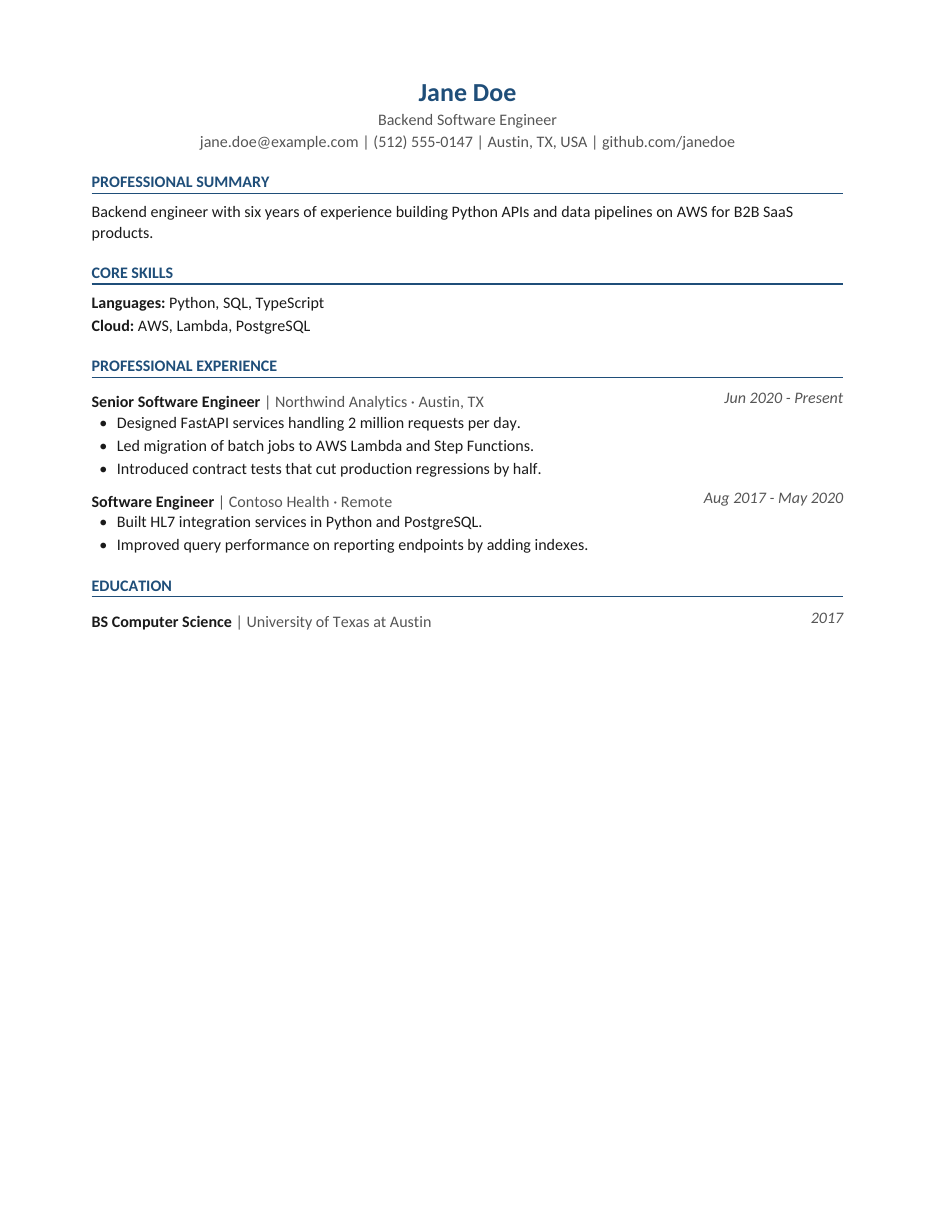
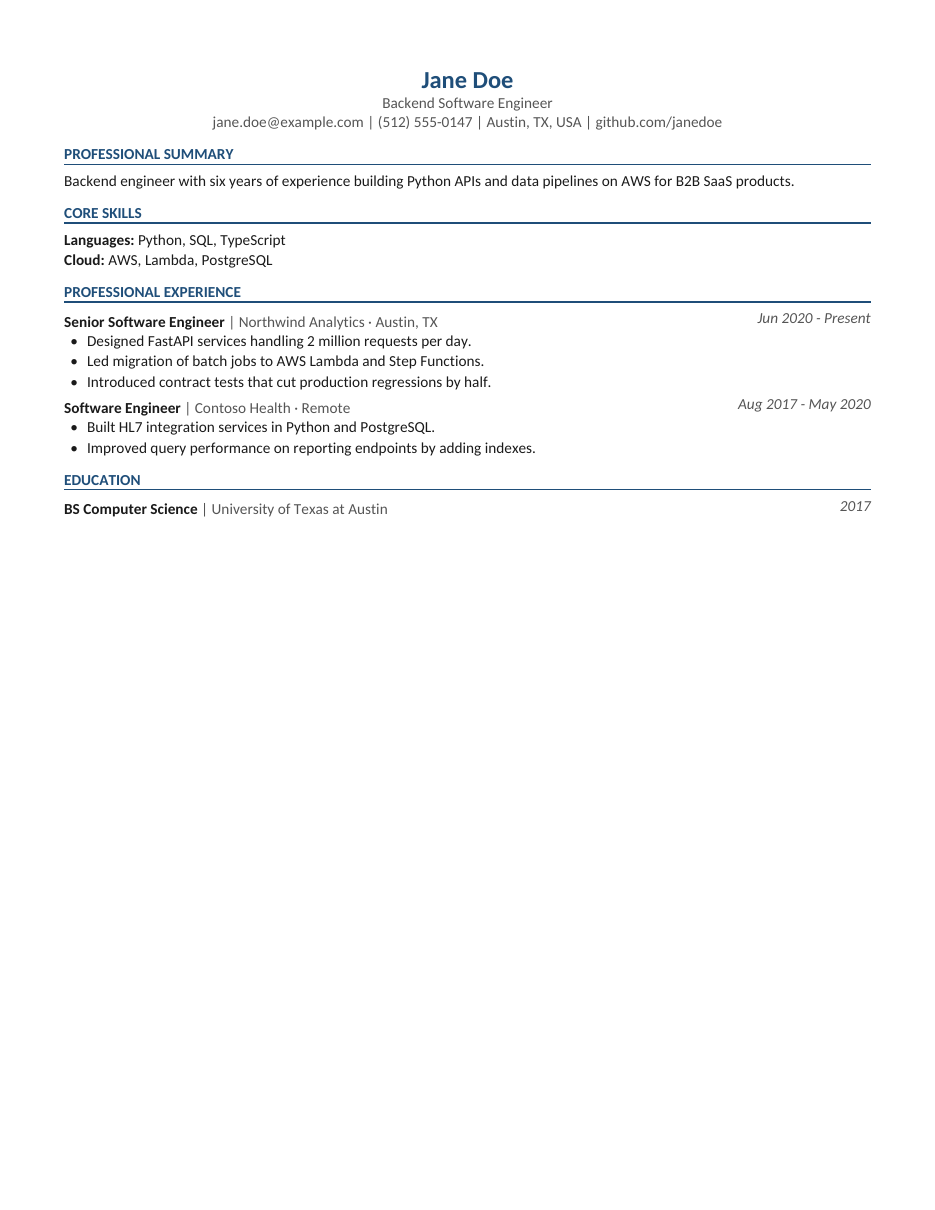
Repair main merge: re-apply resume layout onto the one-page exporter
The merge of main (#25) left pdf_generator.py with a syntax error, so five
test modules failed to import. Rebuilt it from main's version and
re-applied the reference layout on top, keeping #25's behaviour:

- Strict one-page fitting (standard/balanced/compact profiles, then
  condensing), branding stripping, generator-tag scrubbing and per-
  character Noto/WenQuanYi fallback are unchanged.
- The document's base family is now Carlito, or DejaVu Sans when Carlito
  lacks glyphs DejaVu has; fallback coverage is checked against that
  base via a context variable. ExportResult reports the font.
- Name uses the profile title size (16/15/14pt) so the markup-injection
  size cap still holds; employer/location text is regular weight inside
  the bold entry line; dates containing scripts the base font lacks stay
  in the paragraph so they get font fallback.
- rewrite_guard is reported again, now from services/resume_pipeline.py.

Tests: neutral project title in the entry-line test (the branding
stripper removes "Baalebos AI"), rounding for pdfplumber's 8.999999pt
readings, and assertions for entry-line weights and the guard in the
upload flow. Regenerated docs/resume-samples.

Claude-Session: https://claude.ai/code/session_01HCJqQb9cdfXv2skmUJq4rV

diff --git a/backend/app/utils/pdf_generator.py b/backend/app/utils/pdf_generator.py
@@ -5,11 +5,14 @@ Rules enforced here:
   ``strip_watermarks_and_branding``; no footer, page counter, watermark layer,
   producer/creator tag or generator comment is written. ``improvements`` and
   ``score`` are accepted for backwards compatibility and ignored.
-* No tables, images or colour-coded meaning. Text is selectable, uses an
-  embedded Unicode TTF (DejaVu Sans, Noto/WenQuanYi fallbacks for other
-  scripts) and real text bullets.
-* Section order: Summary, Experience, Skills, Education, Certifications,
-  Projects (empty sections omitted).
+* No tables, images or colour-coded meaning (one accent colour for the name
+  and headings only). Text is selectable and uses embedded TTFs: Carlito,
+  or DejaVu Sans for the whole document when Carlito lacks a glyph the text
+  needs, with Noto/WenQuanYi fallbacks for other scripts. Real text bullets;
+  dates sit right-aligned on the entry line as a separate text run.
+* Section order: Professional Summary, Core Skills, Professional Experience,
+  Selected Projects, Certifications, Education, Additional Information
+  (empty sections omitted).
 * Page size follows the candidate's region: US Letter for US/CA, A4 otherwise.
 * Strictly one page: standard (10pt) -> balanced (9.5pt) -> compact (9pt)
   profiles, then secondary content is condensed. Employers, titles, dates,
@@ -17,6 +20,7 @@ Rules enforced here:
 """
 from __future__ import annotations
 
+import contextvars
 import copy
 import os
 import re
@@ -38,18 +42,20 @@ from reportlab.platypus import Flowable, Paragraph, SimpleDocTemplate
 
 FONT_DIRECTORY = Path(__file__).resolve().parents[1] / 'assets' / 'fonts'
 # Carlito is metric-compatible with Calibri. DejaVu Sans covers far more
-# scripts and is used for the whole document when Carlito lacks a glyph, so a
-# resume never mixes fonts or silently loses characters.
+# Latin (e.g. Yoruba dot-below letters), so a document Carlito cannot fully
+# draw uses DejaVu throughout rather than mixing fonts inside names.
 FONT_FAMILIES = {
     'Carlito': ('Carlito-Regular.ttf', 'Carlito-Bold.ttf', 'Carlito-Italic.ttf', 'Carlito-BoldItalic.ttf'),
     'DejaVuSans': ('DejaVuSans.ttf', 'DejaVuSans-Bold.ttf', 'DejaVuSans-Oblique.ttf', 'DejaVuSans-BoldOblique.ttf'),
 }
-PRIMARY_FONT, FALLBACK_FONT = 'Carlito', 'DejaVuSans'
+PRIMARY_FONT, WIDE_LATIN_FONT = 'Carlito', 'DejaVuSans'
 for _family, (_regular, _bold, _italic, _bold_italic) in FONT_FAMILIES.items():
     for _suffix, _file in (('', _regular), ('-Bold', _bold), ('-Italic', _italic), ('-BoldItalic', _bold_italic)):
         pdfmetrics.registerFont(TTFont(_family + _suffix, str(FONT_DIRECTORY / _file)))
     pdfmetrics.registerFontFamily(_family, normal=_family, bold=f'{_family}-Bold',
                                   italic=f'{_family}-Italic', boldItalic=f'{_family}-BoldItalic')
+# The base family of the document being rendered; fallbacks are relative to it.
+_DOCUMENT_FONT = contextvars.ContextVar('resume_document_font', default=PRIMARY_FONT)
 
 ACCENT_COLOR = colors.HexColor('#1F4E79')   # name, headings and rules only; carries no meaning
 TEXT_COLOR = colors.HexColor('#1A1A1A')
@@ -374,13 +380,14 @@ class ExportResult:
     page_size: str
     region: str
     layout: str
+    font: str = PRIMARY_FONT
     condensed: bool = False
     condensed_items: list[str] = field(default_factory=list)
     warnings: list[str] = field(default_factory=list)
 
     def info(self) -> dict:
         return {'pages': self.pages, 'page_size': self.page_size, 'region': self.region, 'layout': self.layout,
-                'condensed': self.condensed, 'condensed_items': list(self.condensed_items),
+                'font': self.font, 'condensed': self.condensed, 'condensed_items': list(self.condensed_items),
                 'warnings': list(self.warnings)}
 
 
@@ -411,9 +418,24 @@ def _font_dirs():
     return extra + FONT_SEARCH_DIRS
 
 
-@lru_cache(maxsize=1)
-def _primary_coverage() -> frozenset:
-    return frozenset(pdfmetrics.getFont(FONT_REGULAR).face.charWidths)
+@lru_cache(maxsize=None)
+def _coverage(family: str) -> frozenset:
+    return frozenset(pdfmetrics.getFont(family).face.charWidths)
+
+
+def choose_font(data: dict) -> str:
+    """Carlito unless it lacks characters DejaVu Sans can draw; then DejaVu."""
+    text = _all_text(data)
+    lacking = {ord(c) for c in text if ord(c) >= 0x80 and not c.isspace()} - _coverage(PRIMARY_FONT)
+    return WIDE_LATIN_FONT if lacking & _coverage(WIDE_LATIN_FONT) else PRIMARY_FONT
+
+
+def _all_text(data: dict) -> str:
+    parts = [data['name'], data['title'], data['contact'], data['summary'], data['additional_information']]
+    parts += [item for category, values in data['skills'].items() for item in (category, ' '.join(values))]
+    for section in ('experience', 'projects', 'education'):
+        parts += [str(v) for entry in data[section] for v in entry.values()]
+    return ' '.join(parts + data['certifications'])
 
 
 @lru_cache(maxsize=None)
@@ -438,7 +460,7 @@ def _font_for(char: str):
     """Return None for the primary font, a fallback font name, or '' if no
     installed font can render the character."""
     code = ord(char)
-    if code < 0x80 or code in _primary_coverage():
+    if code < 0x80 or code in _coverage(_DOCUMENT_FONT.get()):
         return None
     for font_name, _, _ in FALLBACK_FONTS:
         coverage = _fallback(font_name)
@@ -490,25 +512,76 @@ def _unsupported_characters(data: dict) -> list[str]:
     return sorted({c for c in text if ord(c) > 0x7f and not unicodedata.combining(c)
                    and unicodedata.category(c)[0] in 'LNPS' and _font_for(c) == ''})
 
+
+class SectionHeading(Flowable):
+    """Bold accent-coloured caps over a thin rule, kept with the content that follows."""
+
+    def __init__(self, text: str, font: str, size: float, space_before: float):
+        super().__init__()
+        self.text, self.font, self.size = text.upper(), font, size
+        self.keepWithNext = 1
+        self.spaceBefore, self.spaceAfter = space_before, 3
+
+    def wrap(self, available_width, available_height):
+        self.width = available_width
+        return available_width, self.size + 4
+
+    def draw(self):
+        canvas = self.canv
+        canvas.setFillColor(ACCENT_COLOR)
+        canvas.setFont(self.font, self.size)
+        canvas.drawString(0, 4.5, self.text)
+        canvas.setStrokeColor(ACCENT_COLOR)
+        canvas.setLineWidth(0.8)
+        canvas.line(0, 1.5, self.width, 1.5)
+
+
 class EntryLine(Flowable):
     """Entry text on the left, dates right-aligned on the same first line.
 
-def _styles(layout: Layout) -> dict[str, ParagraphStyle]:
+    Drawn as two text runs, not a table, so ATS parsers read it in order.
+    """
+
+    def __init__(self, left_markup: str, right: str, style: ParagraphStyle, right_font: str, keep_with_next: bool):
+        super().__init__()
+        self.left_markup, self.right, self.style, self.right_font = left_markup, right, style, right_font
+        self.keepWithNext = 1 if keep_with_next else 0
+        self.spaceBefore = style.spaceBefore
+
+    def wrap(self, available_width, available_height):
+        self.width = available_width
+        right_width = stringWidth(self.right, self.right_font, self.style.fontSize) if self.right else 0
+        self.paragraph = Paragraph(self.left_markup, self.style)
+        _, self.height = self.paragraph.wrap(available_width - (right_width + 12 if self.right else 0), available_height)
+        return available_width, self.height
+
+    def draw(self):
+        self.paragraph.drawOn(self.canv, 0, 0)
+        if self.right:
+            ascent = pdfmetrics.getAscentDescent(self.style.fontName, self.style.fontSize)[0]
+            self.canv.setFont(self.right_font, self.style.fontSize)
+            self.canv.setFillColor(MUTED_COLOR)
+            self.canv.drawRightString(self.width, self.height - ascent, self.right)
+
+
+def _styles(layout: Layout, font: str) -> dict[str, ParagraphStyle]:
     # splitLongWords + uriWasteReduce wrap long URLs/tokens without inserting
     # characters into the extractable text (which would corrupt ATS parsing).
-    base = dict(fontName=FONT_REGULAR, fontSize=layout.body, leading=layout.leading, textColor=TEXT_COLOR,
+    bold, italic = f'{font}-Bold', f'{font}-Italic'
+    base = dict(fontName=font, fontSize=layout.body, leading=layout.leading, textColor=TEXT_COLOR,
                 splitLongWords=1, uriWasteReduce=0.3)
     return {
-        'name': ParagraphStyle('Name', **{**base, 'fontName': FONT_BOLD, 'fontSize': layout.title,
-                                          'leading': layout.title * 1.2, 'spaceAfter': 1}),
-        'contact': ParagraphStyle('Contact', **base),
-        'heading': ParagraphStyle('Heading', **{**base, 'fontName': FONT_BOLD, 'fontSize': layout.body + 1,
-                                                'leading': layout.leading + 1, 'spaceBefore': layout.section_gap,
-                                                'spaceAfter': 1, 'keepWithNext': True}),
-        'entry': ParagraphStyle('Entry', **{**base, 'spaceBefore': layout.entry_gap, 'keepWithNext': True}),
+        'name': ParagraphStyle('Name', **{**base, 'fontName': bold, 'fontSize': layout.title,
+                                          'leading': layout.title * 1.2, 'textColor': ACCENT_COLOR,
+                                          'alignment': TA_CENTER}),
+        'title': ParagraphStyle('Title', **{**base, 'textColor': MUTED_COLOR, 'alignment': TA_CENTER}),
+        'contact': ParagraphStyle('Contact', **{**base, 'textColor': MUTED_COLOR, 'alignment': TA_CENTER}),
         'body': ParagraphStyle('Body', **base),
-        'bullet': ParagraphStyle('Bullet', **{**base, 'leftIndent': 12, 'bulletIndent': 2,
-                                              'bulletFontName': FONT_REGULAR, 'bulletFontSize': layout.body}),
+        'skill': ParagraphStyle('Skill', **{**base, 'spaceAfter': 1}),
+        'entry': ParagraphStyle('Entry', **{**base, 'fontName': bold, 'spaceBefore': layout.entry_gap + 2}),
+        'meta': ParagraphStyle('Meta', **{**base, 'fontName': italic, 'textColor': MUTED_COLOR, 'spaceAfter': 1}),
+        'bullet': ParagraphStyle('Bullet', **{**base, 'leftIndent': 14, 'bulletIndent': 4, 'spaceAfter': 1,
+                                              'bulletFontName': font, 'bulletFontSize': layout.body}),
     }
 
 
@@ -521,6 +594,7 @@ def _bullet_markup(text: str) -> str:
 
 
 def _muted(text: str, font: str) -> str:
+    """Regular-weight muted text inside a bold entry line."""
     return f"<font name='{font}' color='{MUTED_HEX}'>{_clean(text)}</font>"
 
 
@@ -533,10 +607,13 @@ def _story(data: dict, layout: Layout, font: str) -> list:
     story = []
 
     def heading(title):
-        story.append(Paragraph(title, s['heading']))
-        story.append(HRFlowable(width='100%', thickness=0.6, color=RULE_COLOR, spaceBefore=0, spaceAfter=2))
+        story.append(SectionHeading(title, f'{font}-Bold', layout.body, layout.section_gap + 3))
 
     def entry(primary, secondary, right, keep_with_next):
+        # Dates in a script the base font lacks stay in the paragraph, which
+        # handles font fallback; plain dates are drawn right-aligned.
+        if right and any(_font_for(c) for c in right):
+            secondary, right = ' · '.join(p for p in (secondary, right) if p), ''
         left = f'<b>{_clean(primary)}</b>' if primary else ''
         if secondary:
             left += ('  ' + _muted('|  ' + secondary, font)) if left else _muted(secondary, font)
@@ -606,15 +683,16 @@ def _scrub_generator_tags(pdf: bytes) -> bytes:
 
 
 def _render(data: dict, layout: Layout, pagesize) -> tuple[bytes, int]:
+    font = _DOCUMENT_FONT.get()
     buffer = BytesIO()
     doc = SimpleDocTemplate(
         buffer, pagesize=pagesize, leftMargin=layout.margin, rightMargin=layout.margin,
-        topMargin=layout.margin * 0.8, bottomMargin=layout.margin * 0.8,
+        topMargin=layout.margin, bottomMargin=layout.margin,
         title=f"{data['name']} - Resume", author=data['name'], subject='Resume', creator='',
         producer='', keywords='', lang='en', displayDocTitle=1,
         # Otherwise ReportLab references a non-embedded Helvetica as the canvas default.
-        initialFontName=FONT_REGULAR, initialFontSize=layout.body, initialLeading=layout.leading)
-    doc.build(_story(data, layout))
+        initialFontName=font, initialFontSize=layout.body, initialLeading=layout.leading)
+    doc.build(_story(data, layout, font))
     return _scrub_generator_tags(buffer.getvalue()), doc.page
 
 
@@ -708,6 +786,17 @@ def export_resume(resume_data, region: str | None = None, page_size: str | None 
     if not has_exportable_content(data):
         raise ResumeExportError('Resume content could not be read, so no resume was generated. '
                                 'Please retry or upload a text-based PDF or DOCX.')
+    font = choose_font(data)
+    token = _DOCUMENT_FONT.set(font)
+    try:
+        result = _export(data, region, page_size, priority_keywords)
+    finally:
+        _DOCUMENT_FONT.reset(token)
+    result.font = font
+    return result
+
+
+def _export(data: dict, region, page_size, priority_keywords) -> ExportResult:
     region = resolve_region(region)
     data = apply_region_rules(data, region)
     if page_size:
@@ -720,7 +809,7 @@ def export_resume(resume_data, region: str | None = None, page_size: str | None 
     keywords = [k for k in (priority_keywords or []) if isinstance(k, str) and k.strip()]
 
     warnings = []
-    font, missing = choose_font(data)
+    missing = _unsupported_characters(data)
     if missing:
         warnings.append('Some characters are not supported by the installed resume fonts and may not display: '
                         + ''.join(missing[:20]))

diff --git a/backend/test/test_resume_global_standard.py b/backend/test/test_resume_global_standard.py
@@ -116,7 +116,8 @@ def test_ats_structure_fonts_and_page_count(data):
         assert len(doc.pages) == 1 == result.pages
         for page in doc.pages:
             assert page.find_tables() == []
-            assert min(c['size'] for c in page.chars) >= MIN_BODY_FONT == 9
+            # pdfplumber derives sizes from text matrices; 9pt can read as 8.999999.
+            assert round(min(c['size'] for c in page.chars), 3) >= MIN_BODY_FONT == 9
             assert not page.images
         text = '\n'.join(p.extract_text() for p in doc.pages)
     assert '(cid:' not in text
@@ -216,12 +217,12 @@ def test_entry_line_carries_location_dates_and_project_subtitle():
     data = resume(experience=[{'role': 'Senior AI Trainer', 'company': 'micro1', 'location': 'Remote (Contract)',
                                'dates': 'Sep 2026 – Present', 'environment': 'Python, pytest',
                                'bullets': ['Quality evaluation: Assess AI outputs against written guidelines.']}],
-                  projects=[{'title': 'Baalebos AI', 'subtitle': 'Multi-provider LLM gateway',
+                  projects=[{'title': 'Gateway', 'subtitle': 'Multi-provider LLM gateway',
                              'tech': 'Python, Groq, PyPI', 'bullets': ['Packaged and released: Published on PyPI.']}],
                   certifications=['AWS Educate: Introduction to Generative AI'])
     lines = pdf_text(export_resume(data).pdf).splitlines()
     assert 'Senior AI Trainer | micro1 · Remote (Contract) Sep 2026 - Present' in lines
-    assert 'Baalebos AI | Multi-provider LLM gateway' in lines
+    assert 'Gateway | Multi-provider LLM gateway' in lines
     assert 'Python · Groq · PyPI' in lines and 'Tools: Python · pytest' in lines
 
 
@@ -235,6 +236,9 @@ def test_bullet_labels_are_bold_only_in_experience_and_projects():
     assert font['Docker-based'].endswith('Carlito-Bold') and font['pipelines.'].endswith('Carlito-Regular')
     assert font['Educate:'].endswith('Carlito-Regular')     # a certification name, not a label
     assert font['Cut'].endswith('Carlito-Regular')          # a lead-in containing "." is a sentence
+    # Role is bold; employer and dates on the same line are regular weight.
+    assert font['Engineer'].endswith('Carlito-Bold') and font['Example'].endswith('Carlito-Regular')
+    assert font['2025'].endswith('Carlito-Italic')
 
 
 # ── normalize_resume_data ────────────────────────────────────────────────────
@@ -323,6 +327,8 @@ def test_upload_confirm_regenerate_and_download_flow(client, db, pipeline):
     task_id = res.json()['task_id']
     assert result['task_id'] == task_id and result['suggested_skills'] == ['Terraform']
     assert result['document']['page_size'] == 'A4' and result['document']['region'] == 'NG'
+    assert result['rewrite_guard'] == {'summary_reverted': False, 'roles_reverted': 0}
+    assert result['document']['font'] in ('Carlito', 'DejaVuSans')
     record = db.query(Resume).one()
     assert 'Terraform' not in pdf_text(record.content)
     assert db.query(Subscription).one().scans_this_month == 1

diff --git a/backend/app/services/resume_pipeline.py b/backend/app/services/resume_pipeline.py
@@ -78,7 +78,9 @@ def run_pipeline(content: bytes, filename: str, job_description: str, job_title:
         original_score=before['overall_score'],
         scores={'before': before['overall_score'], 'after': analysis['overall_score']},
         confirmation_questions=rewrite.get('confirmation_questions', []),
-        suggestions_applied=rewrite.get('suggestions_applied', []), job_title=job_title,
+        suggestions_applied=rewrite.get('suggestions_applied', []),
+        # What the guard reverted to source wording (invented numbers or tools).
+        rewrite_guard=rewrite.get('rewrite_guard', {}), job_title=job_title,
         job_description=clean_jd, task_id=task_id, resume_id=task_id, status='success',
         # Missing requirements are suggestions only; they enter the resume
         # solely through /regenerate with explicit confirmation.
